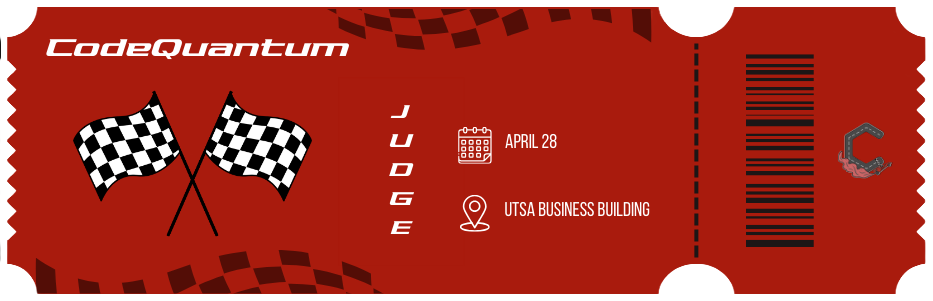
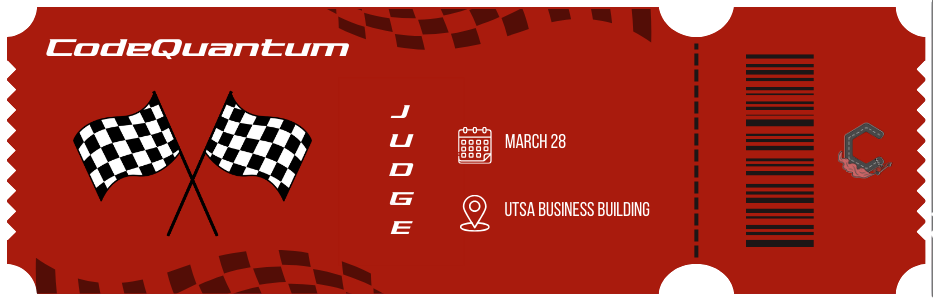
Updated ticket assets and fixed mobile hero rendering

Changed region(s): [[0.9946, 0.0, 1.0, 0.9867], [0.5284, 0.4485, 0.6217, 0.5083]]

diff --git a/apps/web/src/components/landing/Hero.tsx b/apps/web/src/components/landing/Hero.tsx
@@ -5,40 +5,45 @@ import { Button } from "../shadcn/ui/button";
 export default function Hero() {
 	return (
 		<section className="grid w-full grid-cols-1 overflow-hidden">
-			<div className="relative flex min-h-screen w-full flex-col items-center justify-center bg-cover bg-center bg-no-repeat" 
-     			style={{ backgroundImage: "url('/img/hero-bg.jpeg')" }}>
+			<div
+				className="relative flex min-h-screen w-full flex-col items-center justify-center bg-cover bg-center bg-no-repeat"
+				style={{ backgroundImage: "url('/img/hero-bg.jpeg')" }}
+			>
 				{/* Dark overlay */}
-				<div className="absolute inset-0 bg-black/50 z-0"></div>
-				
+				<div className="absolute inset-0 z-0 bg-black/50"></div>
+
 				<div className="relative z-10">
 					<div className="flex flex-col items-center gap-3">
-					<h1 
-						className="font-racing text-white"
-						style={{
-							fontSize: 'clamp(4rem, 8vw + 2rem, 10rem)',
-							background: 'linear-gradient(to bottom, #ffffff 0%, #e8e8e8 50%, #ffffff 100%)',
-							WebkitBackgroundClip: 'text',
-							WebkitTextFillColor: 'transparent',
-							textShadow: '0 1px 2px rgba(255,255,255,0.9), 0 0 10px rgba(255,255,255,0.5)'
-						}}
-					>
-						CodeQuantum
-					</h1>
+						<h1
+							className="font-racing text-white"
+							style={{
+								fontSize: "clamp(1rem, 6vw + 2rem, 10rem)",
+								background:
+									"linear-gradient(to bottom, #ffffff 0%, #e8e8e8 50%, #ffffff 100%)",
+								WebkitBackgroundClip: "text",
+								WebkitTextFillColor: "transparent",
+								textShadow:
+									"0 1px 2px rgba(255,255,255,0.9), 0 0 10px rgba(255,255,255,0.5)",
+							}}
+						>
+							CodeQuantum
+						</h1>
 						<p
 							className="font-racing text-white"
 							style={{
-								fontSize: 'clamp(1rem, 2vw + 0.5rem, 2rem)', 
-								background: 'linear-gradient(to bottom, #ffffff 0%, #e8e8e8 50%, #ffffff 100%)',
-								WebkitBackgroundClip: 'text',
-								WebkitTextFillColor: 'transparent',
-								textShadow: '0 1px 2px rgba(255,255,255,0.9), 0 0 10px rgba(255,255,255,0.5)'
+								fontSize: "clamp(0.5rem, 2vw + 0.5rem, 2rem)",
+								background:
+									"linear-gradient(to bottom, #ffffff 0%, #e8e8e8 50%, #ffffff 100%)",
+								WebkitBackgroundClip: "text",
+								WebkitTextFillColor: "transparent",
+								textShadow:
+									"0 1px 2px rgba(255,255,255,0.9), 0 0 10px rgba(255,255,255,0.5)",
 							}}
 						>
 							3/28 @ UTSA Business Building
 						</p>
 					</div>
-					<div className="mt-6 flex justify-center">
-					</div>
+					<div className="mt-6 flex justify-center"></div>
 				</div>
 			</div>
 		</section>
